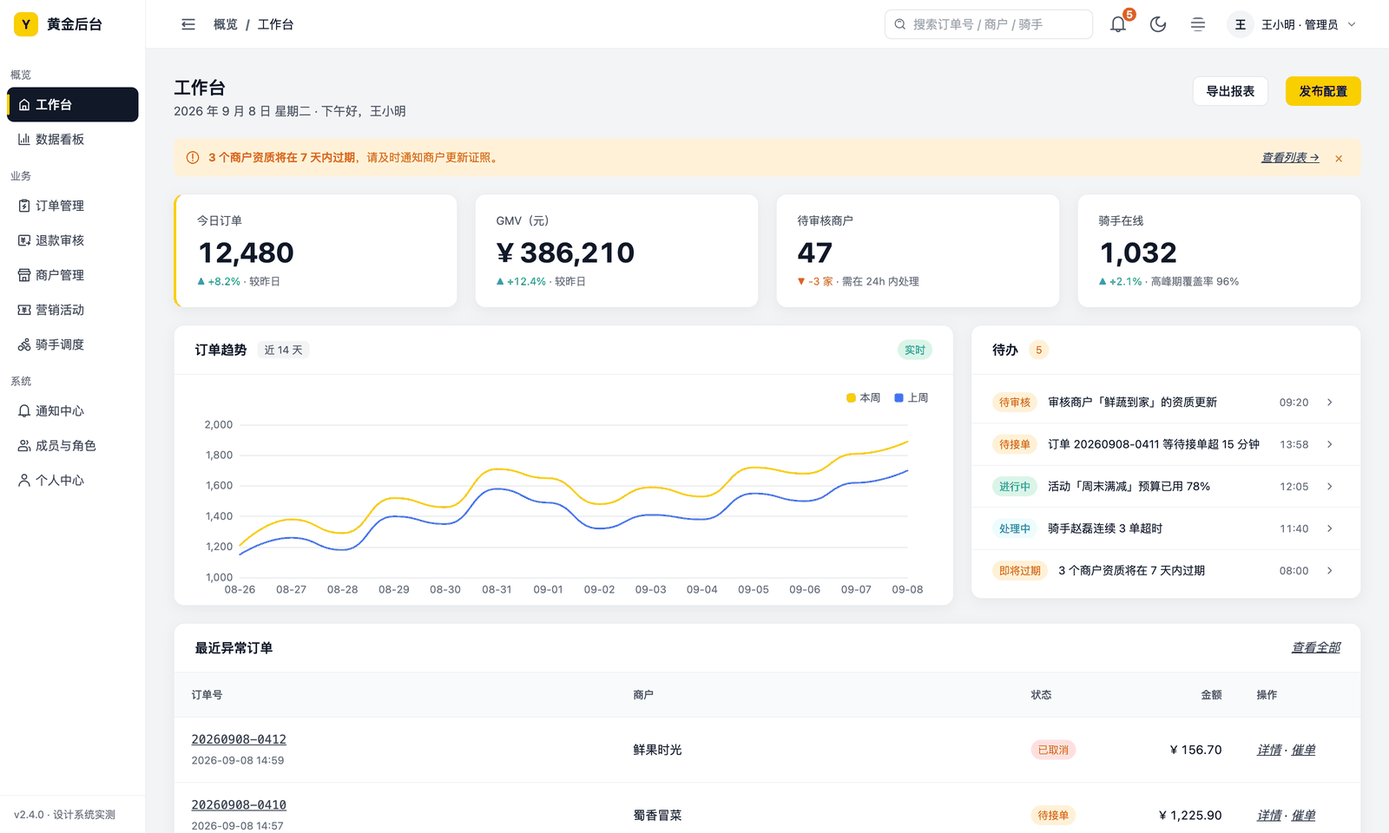
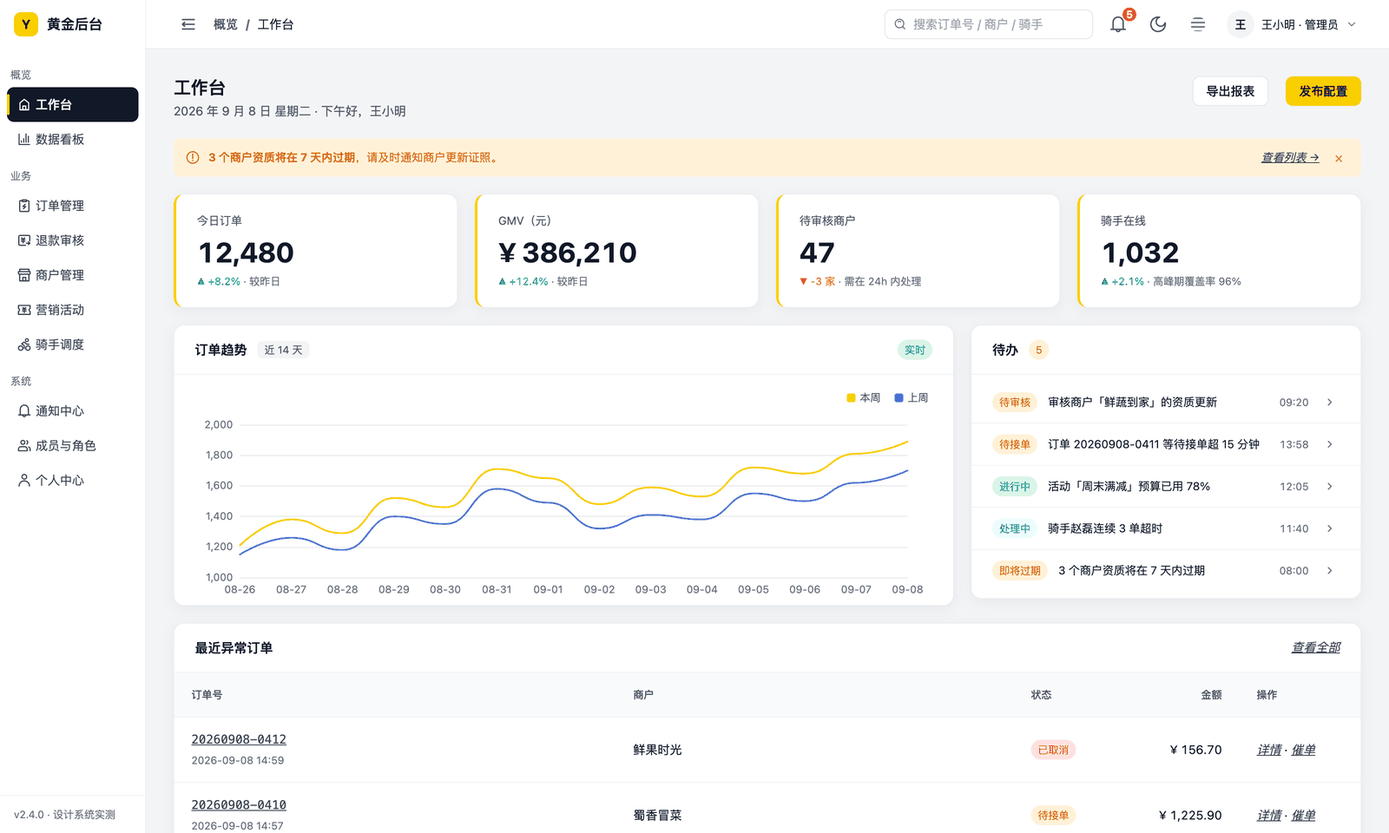
1.3.3 数据卡左侧品牌描边成为固定特征（所有 StatCard 默认带）；预览同步；首图重拍

Changed region(s): [[0.7812, 0.25, 0.9062, 0.3438], [0.3438, 0.25, 0.4688, 0.3438], [0.5625, 0.25, 0.6562, 0.3438]]

diff --git a/citrine/testbed/golden-admin/app/src/components/StatCard.vue b/citrine/testbed/golden-admin/app/src/components/StatCard.vue
@@ -1,21 +1,20 @@
 <script setup>
 // 统计卡（DESIGN 页面骨架「统计卡 vs 状态条」）：数据大字 + 涨跌。工作台与看板共用这一个组件，样式只在这里写一遍。
 // up 是箭头方向，positive 是颜色（好坏）——取消率下降是"向下箭头 + 绿色"，两个维度分开（DESIGN 财务涨跌规则）。
-// hi 只加左侧品牌指示条：数据色卡禁止大面积黄色。
+// 左侧品牌指示条是数据卡的固定特征（用户规则）：所有同类数据卡都带，不是高亮；数据色卡禁止大面积黄色，黄只出现在这一条描边上。
 const props = defineProps({
   label: { type: String, required: true },
   value: { type: [String, Number], required: true },
   delta: String,
   up: { type: Boolean, default: true },
   positive: { type: Boolean, default: undefined },
-  note: String,
-  hi: Boolean
+  note: String
 })
 const good = () => (props.positive === undefined ? props.up : props.positive)
 </script>
 
 <template>
-  <el-card class="stat" :class="{ hi }" shadow="always">
+  <el-card class="stat" shadow="always">
     <div class="label">{{ label }}</div>
     <div class="value num">{{ value }}</div>
     <div v-if="delta" class="delta num" :class="good() ? 'up' : 'down'">{{ up ? '▲' : '▼' }} {{ delta }}<span v-if="note" class="note"> · {{ note }}</span></div>
@@ -28,5 +27,5 @@ const good = () => (props.positive === undefined ? props.up : props.positive)
 .stat .value { font-size: var(--text-display-size); font-weight: var(--text-display-weight); line-height: var(--text-display-line-height); margin: var(--spacing-1-5) 0 var(--spacing-1); letter-spacing: var(--text-display-tracking); }
 .stat .delta { font-size: var(--text-small-size); }   /* 颜色交给全局 .up / .down（data.increase / decrease） */
 .stat .note { color: var(--color-text-muted); }
-.stat.hi { border-left: var(--border-width-indicator) solid var(--color-brand-indicator); }
+.stat { border-left: var(--border-width-indicator) solid var(--color-brand-indicator); }
 </style>

diff --git a/citrine/previews/yellow-admin/admin.css b/citrine/previews/yellow-admin/admin.css
@@ -63,7 +63,7 @@ button { font: inherit; cursor: pointer; }
 .stat .delta.up { color: var(--color-data-increase); }
 .stat .delta.down { color: var(--color-data-decrease); }
 /* 高亮统计卡：数据色卡禁止大面积黄色（rc.24），黄只做左描边点缀 */
-.stat.hi { border-left: var(--border-width-indicator) solid var(--color-brand-indicator); }
+.stat { border-left: var(--border-width-indicator) solid var(--color-brand-indicator); }
 .grid2 { display: grid; grid-template-columns: 2fr 1fr; gap: var(--space-stack); align-items: start; }
 .card-head { display: flex; align-items: center; gap: var(--spacing-3); padding: var(--spacing-4) var(--space-card); border-bottom: var(--border-width-default) solid var(--color-border-default); }
 .card-head h2 { margin: 0; font-size: var(--text-title-sm-size); font-weight: var(--text-weight-strong); }

diff --git a/citrine/seeds/brand-yellow-e/design-system/DESIGN.md b/citrine/seeds/brand-yellow-e/design-system/DESIGN.md
@@ -6,7 +6,7 @@
 
 做页面时只需要这一屏 + 下面的「组件配方」表；其余章节是规则的理由，遇到配方没覆盖的情况再读。
 
-1. 黄只做主操作面：主按钮、进行中的进度 / 滑杆填充、勾选 / 开关选中、当前步骤、分页当前页、品牌 logo。**选中、当前、强调一律用深黑反转块或近黑文字**，不用黄——头像、角色 / 置顶徽标、已结束的进度条都不是黄。
+1. 黄只做主操作面：主按钮、进行中的进度 / 滑杆填充、勾选 / 开关选中、当前步骤、分页当前页、品牌 logo、数据卡左描边。**选中、当前、强调一律用深黑反转块或近黑文字**，不用黄——头像、角色 / 置顶徽标、已结束的进度条都不是黄。
 2. 黄底深字、白底无黄字、任何 hover / focus 不出现黄。
 3. 状态色只做"文字 + 同色浅底"胶囊；实底按钮只有主（黄）与危险（红底白字）；`type=success / warning / info` 按钮不用。
 4. 按钮不能裸放：有描边（次要）或浅底（quiet 文字按钮）。表格操作列 = small quiet 文字按钮，危险动作 = 红字 + 浅红底成对（彩色文字不落在灰底上）；查看 / 跳转类用内容型链接。
@@ -118,7 +118,7 @@
 | --- | --- | --- |
 | 页头（所有页面） | 标题 `text.heading.size` + `text.weight.strong`；一句说明 `text.secondary`；右侧页面级操作区（主按钮至多一个，其余次要 / quiet） | 与内容区间距 `space.stack` |
 | 列表页 | 页头 → 筛选卡 → 表格卡（批量操作条、表格、分页在同一张卡里） | 见「筛选栏」「表格」「已选筹码 / 批量操作条」配方 |
-| 统计卡 vs 状态条 | 带趋势 / 对比的指标用统计卡（数据大字 + 涨跌，高亮 = 左侧品牌指示条）；**只有一个数字的计数不拉满一行**，做成状态条：一行等高格子（`control.height.lg`），左点右数，可点击时作筛选 | 同侧栏的"宽度浪费"规则：内容撑不起的容器不要拉满。**统计卡封装成一个项目组件复用**（golden-admin：`components/StatCard.vue`），不要每页复制一份样式——两页各写一份迟早漂移 |
+| 统计卡 vs 状态条 | 带趋势 / 对比的指标用统计卡（数据大字 + 涨跌，左侧品牌指示条是固定特征）；**只有一个数字的计数不拉满一行**，做成状态条：一行等高格子（`control.height.lg`），左点右数，可点击时作筛选 | 同侧栏的"宽度浪费"规则：内容撑不起的容器不要拉满。**统计卡封装成一个项目组件复用**（golden-admin：`components/StatCard.vue`），不要每页复制一份样式——两页各写一份迟早漂移 |
 | 表单页 | 一张卡，宽度 ≤ `layout.form.max-width`；卡内两列网格（列间距 `spacing.6`），地址、多行文本、上传等长字段跨两列；标签列宽 `layout.form.label-width`、右对齐；页脚按钮行右对齐、顶部发丝线，主操作在最右，其左依次次要（取消 / 上一步）、quiet（保存草稿） | 帮助文字 `text.small.size` + `text.muted`，在控件下方 `spacing.1`；出错时错误文案（`status.error`）占同一位置，不叠加。单位后缀（km、元）用 `text.secondary` 文字跟在控件后，间距 `space.inline` |
 | 分步流程 | 顶部步骤条 + 每步一张表单卡；「上一步 / 下一步」在页脚；最后一步是只读汇总（描述列表，标签列宽同表单）+ 协议勾选 + 提交主按钮 | 完成步骤图标 `status.success`、标题 `text.secondary`；当前步骤 `action.primary`（不必传 `finish-status`，桥接已把完成态与 success 态都映射好） |
 | 详情页 | 页头 → 描述列表卡（分组小标题 `text.title-sm.size` + `text.weight.label`）→ 时间线 / 关联列表；次级详情用右侧抽屉 | — |
@@ -168,7 +168,7 @@
 | 下拉菜单 | `bg.elevated`；项 hover `bg.hover`；危险项 hover `status.error-bg` | `text.primary`；危险项 `text.danger`（桥接约定类 `is-danger`） | `border.default`，`elevation.popover.*`，出现用 `motion.duration.normal` + `motion.easing.enter` |
 | 弹窗 | 遮罩 `bg.overlay`；面板 `bg.elevated` | `text.primary` / `text.secondary` | `radius.lg`，`elevation.modal.*`，进出用 `motion.duration.slow` + `motion.easing.enter` / `exit` |
 | Tooltip / 深色 Toast | `bg.inverse` | `text.inverse` | `radius.sm`，`text.small.size` |
-| 统计卡（高亮） | 同普通卡（`bg.surface`）；**数据色卡禁止大面积黄色**（用户规则），高亮 = 左侧 `brand.indicator` × `border.width.indicator` 描边点缀 | 同普通卡；涨跌照用 `data.increase / decrease` | 数字 `text.display.size`（32px）+ `.weight`（700）+ `.line-height`（1.25 紧行高）+ `.tracking`；数据数字是卡片主角，必须一眼压住标签与涨跌 |
+| 统计卡（数据卡） | 同普通卡（`bg.surface`）+ **左侧 `brand.indicator` × `border.width.indicator` 描边**——这是数据卡的固定特征，所有同类卡都带，不是高亮；**数据色卡禁止大面积黄色**（用户规则），黄只出现在这一条描边上 | 同普通卡；涨跌照用 `data.increase / decrease` | 数字 `text.display.size`（32px）+ `.weight`（700）+ `.line-height`（1.25 紧行高）+ `.tracking`；数据数字是卡片主角，必须一眼压住标签与涨跌 |
 | 进度条 / 进度环 / 仪表盘 | 轨道 `bg.selected` | 内嵌百分比 `text.on-primary`（不用白字） | 填充 `action.primary-active`，`radius.full`；**颜色跟状态走**：只有进行中是黄，已结束 / 已下线 / 草稿等非进行中用 `border.strong` 灰（桥接约定类 `is-muted`）——一屏十几张卡全黄就不是焦点了；status 变体用 `status.*`；不接受自定义进度色 |
 | 评分 | — | 文案 `text.secondary` | 实星 `action.selected`（填充是选中语义，不用金黄），空星 `border.strong`；焦点 `border.focus` |
 | 头像（字母 / 占位，含顶栏与个人中心） | `bg.selected` | `text.selected` | 不用品牌黄——头像不是主操作面；组件库默认的灰底白字暗色下不到 3:1 |

diff --git a/citrine/testbed/golden-admin/app/design-system/DESIGN.md b/citrine/testbed/golden-admin/app/design-system/DESIGN.md
@@ -6,7 +6,7 @@
 
 做页面时只需要这一屏 + 下面的「组件配方」表；其余章节是规则的理由，遇到配方没覆盖的情况再读。
 
-1. 黄只做主操作面：主按钮、进行中的进度 / 滑杆填充、勾选 / 开关选中、当前步骤、分页当前页、品牌 logo。**选中、当前、强调一律用深黑反转块或近黑文字**，不用黄——头像、角色 / 置顶徽标、已结束的进度条都不是黄。
+1. 黄只做主操作面：主按钮、进行中的进度 / 滑杆填充、勾选 / 开关选中、当前步骤、分页当前页、品牌 logo、数据卡左描边。**选中、当前、强调一律用深黑反转块或近黑文字**，不用黄——头像、角色 / 置顶徽标、已结束的进度条都不是黄。
 2. 黄底深字、白底无黄字、任何 hover / focus 不出现黄。
 3. 状态色只做"文字 + 同色浅底"胶囊；实底按钮只有主（黄）与危险（红底白字）；`type=success / warning / info` 按钮不用。
 4. 按钮不能裸放：有描边（次要）或浅底（quiet 文字按钮）。表格操作列 = small quiet 文字按钮，危险动作 = 红字 + 浅红底成对（彩色文字不落在灰底上）；查看 / 跳转类用内容型链接。
@@ -118,7 +118,7 @@
 | --- | --- | --- |
 | 页头（所有页面） | 标题 `text.heading.size` + `text.weight.strong`；一句说明 `text.secondary`；右侧页面级操作区（主按钮至多一个，其余次要 / quiet） | 与内容区间距 `space.stack` |
 | 列表页 | 页头 → 筛选卡 → 表格卡（批量操作条、表格、分页在同一张卡里） | 见「筛选栏」「表格」「已选筹码 / 批量操作条」配方 |
-| 统计卡 vs 状态条 | 带趋势 / 对比的指标用统计卡（数据大字 + 涨跌，高亮 = 左侧品牌指示条）；**只有一个数字的计数不拉满一行**，做成状态条：一行等高格子（`control.height.lg`），左点右数，可点击时作筛选 | 同侧栏的"宽度浪费"规则：内容撑不起的容器不要拉满。**统计卡封装成一个项目组件复用**（golden-admin：`components/StatCard.vue`），不要每页复制一份样式——两页各写一份迟早漂移 |
+| 统计卡 vs 状态条 | 带趋势 / 对比的指标用统计卡（数据大字 + 涨跌，左侧品牌指示条是固定特征）；**只有一个数字的计数不拉满一行**，做成状态条：一行等高格子（`control.height.lg`），左点右数，可点击时作筛选 | 同侧栏的"宽度浪费"规则：内容撑不起的容器不要拉满。**统计卡封装成一个项目组件复用**（golden-admin：`components/StatCard.vue`），不要每页复制一份样式——两页各写一份迟早漂移 |
 | 表单页 | 一张卡，宽度 ≤ `layout.form.max-width`；卡内两列网格（列间距 `spacing.6`），地址、多行文本、上传等长字段跨两列；标签列宽 `layout.form.label-width`、右对齐；页脚按钮行右对齐、顶部发丝线，主操作在最右，其左依次次要（取消 / 上一步）、quiet（保存草稿） | 帮助文字 `text.small.size` + `text.muted`，在控件下方 `spacing.1`；出错时错误文案（`status.error`）占同一位置，不叠加。单位后缀（km、元）用 `text.secondary` 文字跟在控件后，间距 `space.inline` |
 | 分步流程 | 顶部步骤条 + 每步一张表单卡；「上一步 / 下一步」在页脚；最后一步是只读汇总（描述列表，标签列宽同表单）+ 协议勾选 + 提交主按钮 | 完成步骤图标 `status.success`、标题 `text.secondary`；当前步骤 `action.primary`（不必传 `finish-status`，桥接已把完成态与 success 态都映射好） |
 | 详情页 | 页头 → 描述列表卡（分组小标题 `text.title-sm.size` + `text.weight.label`）→ 时间线 / 关联列表；次级详情用右侧抽屉 | — |
@@ -168,7 +168,7 @@
 | 下拉菜单 | `bg.elevated`；项 hover `bg.hover`；危险项 hover `status.error-bg` | `text.primary`；危险项 `text.danger`（桥接约定类 `is-danger`） | `border.default`，`elevation.popover.*`，出现用 `motion.duration.normal` + `motion.easing.enter` |
 | 弹窗 | 遮罩 `bg.overlay`；面板 `bg.elevated` | `text.primary` / `text.secondary` | `radius.lg`，`elevation.modal.*`，进出用 `motion.duration.slow` + `motion.easing.enter` / `exit` |
 | Tooltip / 深色 Toast | `bg.inverse` | `text.inverse` | `radius.sm`，`text.small.size` |
-| 统计卡（高亮） | 同普通卡（`bg.surface`）；**数据色卡禁止大面积黄色**（用户规则），高亮 = 左侧 `brand.indicator` × `border.width.indicator` 描边点缀 | 同普通卡；涨跌照用 `data.increase / decrease` | 数字 `text.display.size`（32px）+ `.weight`（700）+ `.line-height`（1.25 紧行高）+ `.tracking`；数据数字是卡片主角，必须一眼压住标签与涨跌 |
+| 统计卡（数据卡） | 同普通卡（`bg.surface`）+ **左侧 `brand.indicator` × `border.width.indicator` 描边**——这是数据卡的固定特征，所有同类卡都带，不是高亮；**数据色卡禁止大面积黄色**（用户规则），黄只出现在这一条描边上 | 同普通卡；涨跌照用 `data.increase / decrease` | 数字 `text.display.size`（32px）+ `.weight`（700）+ `.line-height`（1.25 紧行高）+ `.tracking`；数据数字是卡片主角，必须一眼压住标签与涨跌 |
 | 进度条 / 进度环 / 仪表盘 | 轨道 `bg.selected` | 内嵌百分比 `text.on-primary`（不用白字） | 填充 `action.primary-active`，`radius.full`；**颜色跟状态走**：只有进行中是黄，已结束 / 已下线 / 草稿等非进行中用 `border.strong` 灰（桥接约定类 `is-muted`）——一屏十几张卡全黄就不是焦点了；status 变体用 `status.*`；不接受自定义进度色 |
 | 评分 | — | 文案 `text.secondary` | 实星 `action.selected`（填充是选中语义，不用金黄），空星 `border.strong`；焦点 `border.focus` |
 | 头像（字母 / 占位，含顶栏与个人中心） | `bg.selected` | `text.selected` | 不用品牌黄——头像不是主操作面；组件库默认的灰底白字暗色下不到 3:1 |

diff --git a/citrine/testbed/legacy-shop/design-system/DESIGN.md b/citrine/testbed/legacy-shop/design-system/DESIGN.md
@@ -6,7 +6,7 @@
 
 做页面时只需要这一屏 + 下面的「组件配方」表；其余章节是规则的理由，遇到配方没覆盖的情况再读。
 
-1. 黄只做主操作面：主按钮、进行中的进度 / 滑杆填充、勾选 / 开关选中、当前步骤、分页当前页、品牌 logo。**选中、当前、强调一律用深黑反转块或近黑文字**，不用黄——头像、角色 / 置顶徽标、已结束的进度条都不是黄。
+1. 黄只做主操作面：主按钮、进行中的进度 / 滑杆填充、勾选 / 开关选中、当前步骤、分页当前页、品牌 logo、数据卡左描边。**选中、当前、强调一律用深黑反转块或近黑文字**，不用黄——头像、角色 / 置顶徽标、已结束的进度条都不是黄。
 2. 黄底深字、白底无黄字、任何 hover / focus 不出现黄。
 3. 状态色只做"文字 + 同色浅底"胶囊；实底按钮只有主（黄）与危险（红底白字）；`type=success / warning / info` 按钮不用。
 4. 按钮不能裸放：有描边（次要）或浅底（quiet 文字按钮）。表格操作列 = small quiet 文字按钮，危险动作 = 红字 + 浅红底成对（彩色文字不落在灰底上）；查看 / 跳转类用内容型链接。
@@ -118,7 +118,7 @@
 | --- | --- | --- |
 | 页头（所有页面） | 标题 `text.heading.size` + `text.weight.strong`；一句说明 `text.secondary`；右侧页面级操作区（主按钮至多一个，其余次要 / quiet） | 与内容区间距 `space.stack` |
 | 列表页 | 页头 → 筛选卡 → 表格卡（批量操作条、表格、分页在同一张卡里） | 见「筛选栏」「表格」「已选筹码 / 批量操作条」配方 |
-| 统计卡 vs 状态条 | 带趋势 / 对比的指标用统计卡（数据大字 + 涨跌，高亮 = 左侧品牌指示条）；**只有一个数字的计数不拉满一行**，做成状态条：一行等高格子（`control.height.lg`），左点右数，可点击时作筛选 | 同侧栏的"宽度浪费"规则：内容撑不起的容器不要拉满。**统计卡封装成一个项目组件复用**（golden-admin：`components/StatCard.vue`），不要每页复制一份样式——两页各写一份迟早漂移 |
+| 统计卡 vs 状态条 | 带趋势 / 对比的指标用统计卡（数据大字 + 涨跌，左侧品牌指示条是固定特征）；**只有一个数字的计数不拉满一行**，做成状态条：一行等高格子（`control.height.lg`），左点右数，可点击时作筛选 | 同侧栏的"宽度浪费"规则：内容撑不起的容器不要拉满。**统计卡封装成一个项目组件复用**（golden-admin：`components/StatCard.vue`），不要每页复制一份样式——两页各写一份迟早漂移 |
 | 表单页 | 一张卡，宽度 ≤ `layout.form.max-width`；卡内两列网格（列间距 `spacing.6`），地址、多行文本、上传等长字段跨两列；标签列宽 `layout.form.label-width`、右对齐；页脚按钮行右对齐、顶部发丝线，主操作在最右，其左依次次要（取消 / 上一步）、quiet（保存草稿） | 帮助文字 `text.small.size` + `text.muted`，在控件下方 `spacing.1`；出错时错误文案（`status.error`）占同一位置，不叠加。单位后缀（km、元）用 `text.secondary` 文字跟在控件后，间距 `space.inline` |
 | 分步流程 | 顶部步骤条 + 每步一张表单卡；「上一步 / 下一步」在页脚；最后一步是只读汇总（描述列表，标签列宽同表单）+ 协议勾选 + 提交主按钮 | 完成步骤图标 `status.success`、标题 `text.secondary`；当前步骤 `action.primary`（不必传 `finish-status`，桥接已把完成态与 success 态都映射好） |
 | 详情页 | 页头 → 描述列表卡（分组小标题 `text.title-sm.size` + `text.weight.label`）→ 时间线 / 关联列表；次级详情用右侧抽屉 | — |
@@ -168,7 +168,7 @@
 | 下拉菜单 | `bg.elevated`；项 hover `bg.hover`；危险项 hover `status.error-bg` | `text.primary`；危险项 `text.danger`（桥接约定类 `is-danger`） | `border.default`，`elevation.popover.*`，出现用 `motion.duration.normal` + `motion.easing.enter` |
 | 弹窗 | 遮罩 `bg.overlay`；面板 `bg.elevated` | `text.primary` / `text.secondary` | `radius.lg`，`elevation.modal.*`，进出用 `motion.duration.slow` + `motion.easing.enter` / `exit` |
 | Tooltip / 深色 Toast | `bg.inverse` | `text.inverse` | `radius.sm`，`text.small.size` |
-| 统计卡（高亮） | 同普通卡（`bg.surface`）；**数据色卡禁止大面积黄色**（用户规则），高亮 = 左侧 `brand.indicator` × `border.width.indicator` 描边点缀 | 同普通卡；涨跌照用 `data.increase / decrease` | 数字 `text.display.size`（32px）+ `.weight`（700）+ `.line-height`（1.25 紧行高）+ `.tracking`；数据数字是卡片主角，必须一眼压住标签与涨跌 |
+| 统计卡（数据卡） | 同普通卡（`bg.surface`）+ **左侧 `brand.indicator` × `border.width.indicator` 描边**——这是数据卡的固定特征，所有同类卡都带，不是高亮；**数据色卡禁止大面积黄色**（用户规则），黄只出现在这一条描边上 | 同普通卡；涨跌照用 `data.increase / decrease` | 数字 `text.display.size`（32px）+ `.weight`（700）+ `.line-height`（1.25 紧行高）+ `.tracking`；数据数字是卡片主角，必须一眼压住标签与涨跌 |
 | 进度条 / 进度环 / 仪表盘 | 轨道 `bg.selected` | 内嵌百分比 `text.on-primary`（不用白字） | 填充 `action.primary-active`，`radius.full`；**颜色跟状态走**：只有进行中是黄，已结束 / 已下线 / 草稿等非进行中用 `border.strong` 灰（桥接约定类 `is-muted`）——一屏十几张卡全黄就不是焦点了；status 变体用 `status.*`；不接受自定义进度色 |
 | 评分 | — | 文案 `text.secondary` | 实星 `action.selected`（填充是选中语义，不用金黄），空星 `border.strong`；焦点 `border.focus` |
 | 头像（字母 / 占位，含顶栏与个人中心） | `bg.selected` | `text.selected` | 不用品牌黄——头像不是主操作面；组件库默认的灰底白字暗色下不到 3:1 |

diff --git a/citrine/testbed/golden-admin/FINDINGS.md b/citrine/testbed/golden-admin/FINDINGS.md
@@ -80,6 +80,7 @@
 | D31 | 关闭 ×、el-tag 关闭、表格操作链接命中区 < 24px | 没有最小命中区 token | token + 桥接 + 页面 | 新增 `control.hit-min` 24px；桥接给 tag 关闭 / 输入清除外扩；`td .link`、`.tip-x`、`.go` 撑到 24 |
 | D32 | 派单弹窗选项卡只有内容宽、居中漂着 | Element radio-group 默认 `align-items: center`，纵向排列时把子项挤成内容宽 | 配方 + 页面 | `.orders` 改 `align-items: stretch`；配方表新增「选项卡片」一行注明这个坑 |
 | D33 | 结算表退款列逐行红字、合计行黑字；"确认新密码"没有必填星号；改派抽屉文案"6 位空闲骑手"里 3 位忙碌 | 页面细节 | 页面 | 退款列改普通数字（退款不是涨跌语义）；补 required 规则；改文案 |
+| D65 | 数据卡左描边应是固定特征而非高亮（用户规则） | 只有一张卡带描边 | 组件 + 配方 | 1.3.3：所有 StatCard 默认左描边，预览同步 |
 | D64 | 工作台与看板的统计卡样式各写一份（用户要求同步） | 复制粘贴的样式已漂移（高亮描边只在一页） | 项目组件 + 骨架配方 | 1.3.2：`StatCard.vue` 共用，规则"统计卡封装复用" |
 | D63 | 视觉自审（人眼层）：17 页 × 亮暗 | 黄底头像、纯黄角色徽标、危险链接同色、保存草稿档位、12 张卡全黄进度条、订单号斜体、单数字统计卡拉满、详情页间距 | 配方 + 公共类 + 桥接 | 1.3.1：8 条全部按建议改到系统层（用户批准） |
 | D62 | 侧栏宽度浪费、折叠图标不居中（用户反馈） | 200px 侧栏对 3～5 字标签过宽；折叠触发层 12px 内边距把 20px 图标挤偏 2px，且 IconPark 字号未随 .el-icon 升档 | token + 桥接 | 1.3.0：`size.sidebar` 168；触发层内边距清零居中、图标继承 lg |

diff --git a/citrine/testbed/golden-admin/app/AGENTS.md b/citrine/testbed/golden-admin/app/AGENTS.md
@@ -9,7 +9,7 @@
 ## 项目接线
 
 - 样式只引用 `design-system/dist` 生成的 CSS 变量（`--color-*`、`--space-*`、`--text-*`、`--control-*`、`--radius-*`、`--elevation-*`…），不写色值、像素字面量；页面级公共类在 `src/styles/app.css`。
-- 组件库是 Element Plus，已由 `src/styles/bridge/element-plus.css` 接到 token；不要改桥接、不要引 Element 的 dark css-vars。统计卡用 `components/StatCard.vue`（label / value / delta / up / positive / note / hi），图表用 `components/EChart.vue`（主题来自 `src/styles/bridge/echarts.js`），option 里只写数据与布局，不写颜色、线型。
+- 组件库是 Element Plus，已由 `src/styles/bridge/element-plus.css` 接到 token；不要改桥接、不要引 Element 的 dark css-vars。统计卡用 `components/StatCard.vue`（label / value / delta / up / positive / note，左描边自带），图表用 `components/EChart.vue`（主题来自 `src/styles/bridge/echarts.js`），option 里只写数据与布局，不写颜色、线型。
 - 路由 `src/router.js`（hash 路由，`meta.menu` 对应侧栏项与角色权限），侧栏与顶栏在 `src/layouts/AdminLayout.vue`，角色与权限在 `src/store.js`，演示数据在 `src/mock/data.js`。
 - 演示状态参数（`?state=empty|loading|error|invalid|success`、`?step=2`、`?role=`、`?theme=`、`?density=`）放在 `#` **之前**，页面用 `new URLSearchParams(location.search)` 读取（截图脚本依赖这一约定，不要用 `useRoute().query`）。
 - 改完 UI 运行 `node ../../../../skills/design-system-steward/scripts/guard.mjs --project "$PWD"`，应为 `current`。

diff --git a/citrine/seeds/brand-yellow-e/CHANGELOG.md b/citrine/seeds/brand-yellow-e/CHANGELOG.md
@@ -2,6 +2,10 @@
 
 版本策略：patch 只改描述与文档，以及让组件库遵守既有规则的桥接修正；minor 新增 token、改 token 值（视觉会变、名字不变，条目里必须写清肉眼可见的影响）或新增桥接 / 消费产物；major 才改名或删除 token，并附兼容 shim。
 
+## 1.3.3 — 2026-09-11（数据卡左描边成为固定特征）
+
+- 用户规则：所有同类数据卡都在左侧加品牌黄描边——它不是"高亮"，是数据卡的识别特征。`StatCard` 去掉 `hi` 属性、描边默认带；配方「统计卡（高亮）」改为「统计卡（数据卡）」；预览页同步。黄仍只出现在这一条 3px 描边上，卡面不上黄。
+
 ## 1.3.2 — 2026-09-11（统计卡收成一个组件）
 
 - 用户指出工作台的数据卡要与看板的"同步"：两页各复制了一份 `.stat` 样式，已经出现差异（高亮描边只有一页有）。抽成实测项目组件 `components/StatCard.vue`（label / value / delta / up / positive / note / hi），两页改用；DESIGN 页面骨架补一句"统计卡封装成项目组件复用，不要每页复制样式"。

diff --git a/citrine/seeds/brand-yellow-e/README.md b/citrine/seeds/brand-yellow-e/README.md
@@ -2,7 +2,7 @@
 
 > 种子目录代号仍是 `brand-yellow-e`（脚本与文档中的路径不变）；系统名称 Citrine（黄晶）见仓库根 README。
 
-版本 1.3.2 · 公司级中后台设计规范（单品牌线）· 变更见 [CHANGELOG.md](CHANGELOG.md)
+版本 1.3.3 · 公司级中后台设计规范（单品牌线）· 变更见 [CHANGELOG.md](CHANGELOG.md)
 
 一套已通过 `design-system-steward` `validate-system` / `build-tokens` / `guard` 的 DTCG 设计系统起点。复制进任何项目就是 Core + dark / compact 两个 Theme；视觉效果见 `../../previews/yellow-admin/`：`admin.html` 是工作台，`stress.html` 是登录、列表、表单、详情、反馈、折叠侧栏六类页面的压力测试（方案 S 全部由构建产物驱动）。
 

diff --git a/README.md b/README.md
@@ -4,7 +4,7 @@
 
 | 设计系统 | 定位 | 版本 |
 | --- | --- | --- |
-| [**Citrine · 黄晶**](citrine/) | 中后台 · 品牌黄唯一焦点 + 冷灰骨架 · 亮 / 暗 / 紧凑 · Element Plus / shadcn/ui / ECharts 桥接 · 给编码 Agent 的配方与验收基线 | 1.3.2 |
+| [**Citrine · 黄晶**](citrine/) | 中后台 · 品牌黄唯一焦点 + 冷灰骨架 · 亮 / 暗 / 紧凑 · Element Plus / shadcn/ui / ECharts 桥接 · 给编码 Agent 的配方与验收基线 | 1.3.3 |
 
 [![Citrine](citrine/docs/screenshots/hero.png)](citrine/)
 

diff --git a/citrine/README.md b/citrine/README.md
@@ -4,7 +4,7 @@
 
 ![Citrine · 实测项目「黄金后台」亮 / 暗模式](docs/screenshots/hero.png)
 
-版本 **1.3.2** · Core 313 个 token · dark 69 条 / compact 8 条 delta · 变更见 [CHANGELOG](seeds/brand-yellow-e/CHANGELOG.md)
+版本 **1.3.3** · Core 313 个 token · dark 69 条 / compact 8 条 delta · 变更见 [CHANGELOG](seeds/brand-yellow-e/CHANGELOG.md)
 
 ---
 
